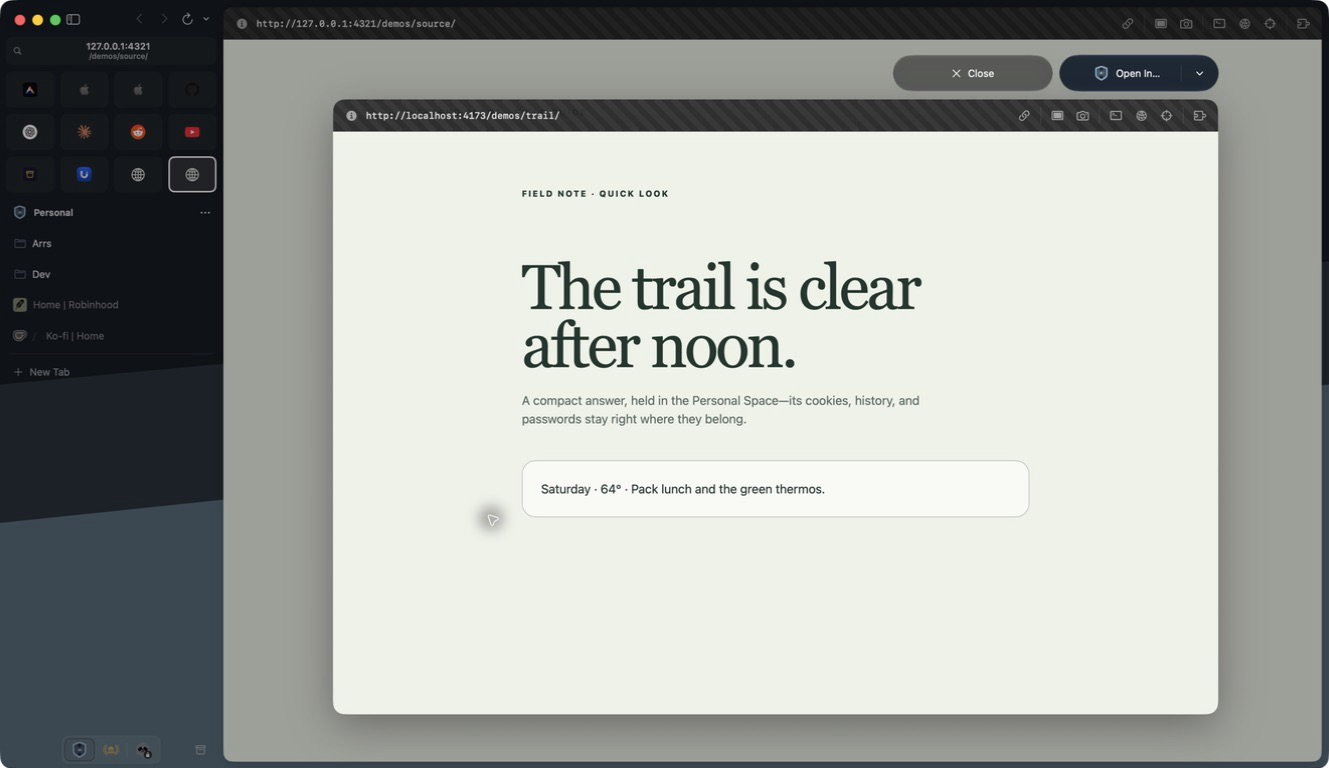
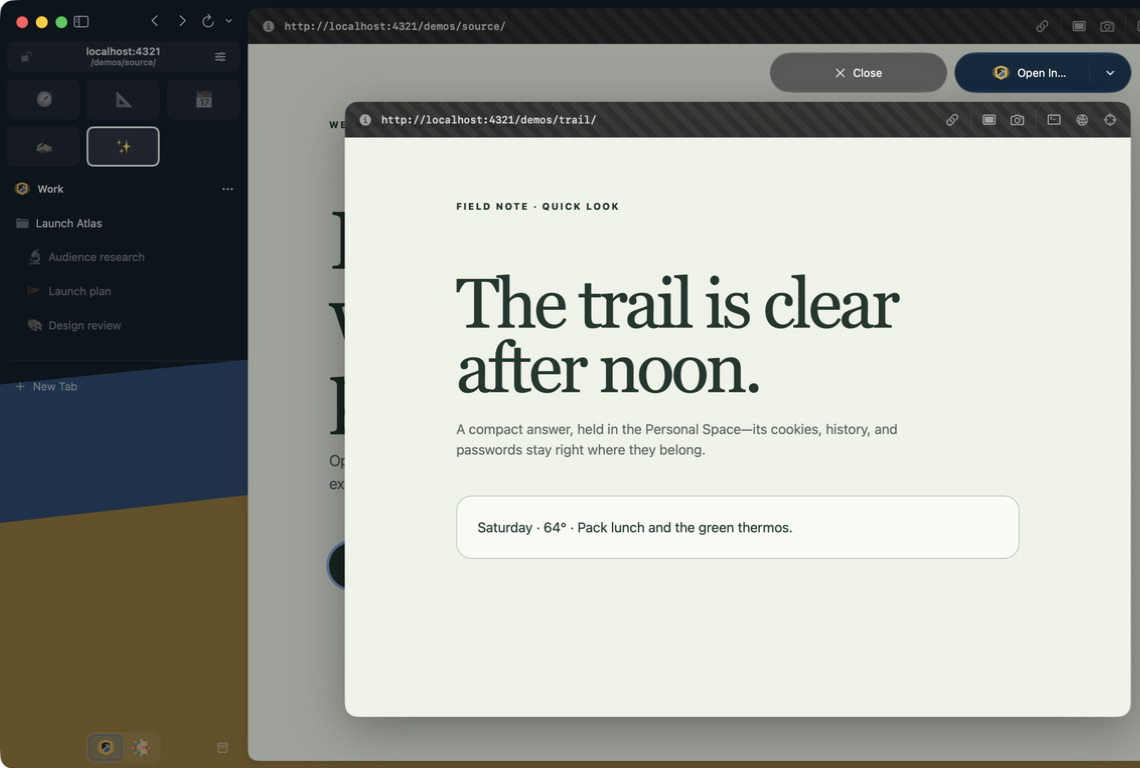
Website work

diff --git a/site/index.html b/site/index.html
@@ -39,7 +39,7 @@
   <link rel="apple-touch-icon" sizes="180x180" href="assets/apple-touch-icon.png">
   <link rel="mask-icon" href="assets/crest-logo.svg" color="#101827">
   <link rel="manifest" href="site.webmanifest">
-  <link rel="stylesheet" href="styles.css?v=20260816-direct-split-parity">
+  <link rel="stylesheet" href="styles.css?v=20260817-uniform-parity-matrix">
   <script src="site.js" defer></script>
   <script type="application/ld+json">
     {
@@ -165,7 +165,7 @@
         <div class="parity-row" role="row"><span role="cell">Durable pages</span><strong role="cell">Pinned Tabs</strong><span role="cell"><b>Saved tabs</b><small>Keep a home URL, wander away, then return to the saved location.</small></span></div>
         <div class="parity-row" role="row"><span role="cell">Projects and nesting</span><strong role="cell">Folders</strong><span role="cell"><b>Saved folders</b><small>Nest, color, collapse, reorder, and move complete folder trees.</small></span></div>
         <div class="parity-row" role="row"><span role="cell">Fast navigation</span><strong role="cell">Command Bar</strong><span role="cell"><b>Command palette</b><small>Search the web, tabs, history, other Spaces, and every Crest command.</small></span></div>
-        <div class="parity-row parity-featured" role="row"><span role="cell">Automatic link routing</span><strong role="cell">Air Traffic Control</strong><span role="cell"><b>Link Routing</b><small>Send exact URLs or matching domains to the right Space before the default route.</small></span></div>
+        <div class="parity-row" role="row"><span role="cell">Automatic link routing</span><strong role="cell">Air Traffic Control</strong><span role="cell"><b>Link Routing</b><small>Send exact URLs or matching domains to the right Space before the default route.</small></span></div>
         <div class="parity-row" role="row"><span role="cell">Multiple pages at once</span><strong role="cell">Split View</strong><span role="cell"><b>Split View</b><small>Two to four live cards, resizable on Mac and iPad and paged on iPhone.</small></span></div>
         <div class="parity-row" role="row"><span role="cell">Temporary link preview</span><strong role="cell">Peek</strong><span role="cell"><b>Peek</b><small>Preview above the source page, then close it or promote it into any Space.</small></span></div>
         <div class="parity-row" role="row"><span role="cell">External-link triage</span><strong role="cell">Little Arc</strong><span role="cell"><b>Quick Window</b><small>Open small, choose the right Space, and keep only what matters.</small></span></div>
@@ -277,7 +277,7 @@
       </div>
 
       <figure class="split-product-shot reveal">
-        <img src="assets/crest-split-view-mac-2026.png" alt="Crest Split View on Mac showing a field guide and trail note side by side inside the Personal Space" width="1329" height="768">
+        <img src="assets/crest-split-view-mac-2026.png" alt="Crest Split View on Mac showing a field guide and trail note side by side inside the Personal Space" width="1228" height="650">
         <figcaption><span>Real Crest capture · Personal Space</span><strong>Two live pages, one saved group.</strong></figcaption>
       </figure>
 
@@ -516,7 +516,7 @@
             <h3>Take a quick look without losing your place</h3>
             <p>Open a link above the page you are reading. Close it to return instantly, or promote it into a full tab when it earns a place.</p>
           </div>
-          <figure><img src="assets/crest-peek-mac-2026.png" alt="Current Crest Peek displaying a trail note above its dimmed source page" width="1329" height="768"></figure>
+          <figure><img src="assets/crest-peek-mac-2026.png" alt="Current Crest Peek displaying a trail note above its dimmed source page" width="1140" height="768"></figure>
         </article>
 
         <article class="feature-chapter feature-localhost reveal">
@@ -526,7 +526,7 @@
             <h3>Developer tools that appear when you open localhost</h3>
             <p>Open localhost and Crest reveals a dedicated toolbar for reload options, responsive capture, console, network, and inspection. Leave localhost and the extra chrome leaves with it.</p>
           </div>
-          <figure><img src="assets/crest-localhost-mac-2026.png" alt="Crest on Mac showing its automatic localhost developer toolbar" width="1329" height="768"></figure>
+          <figure><img src="assets/crest-localhost-mac-2026.png" alt="Crest on Mac showing its automatic localhost developer toolbar" width="1228" height="650"></figure>
         </article>
       </div>
 

diff --git a/site/styles.css b/site/styles.css
@@ -204,8 +204,6 @@ nav a:not(.nav-cta):hover::after { right: 0; }
 .parity-row > span:last-child { display: grid; gap: .35rem; }
 .parity-row b { font: 600 .82rem/1.35 var(--sans); }
 .parity-row small { color: rgba(16,24,39,.62); font-size: .72rem; line-height: 1.55; }
-.parity-featured { background: rgba(210,173,88,.22); box-shadow: inset .3rem 0 var(--gold); }
-.parity-featured > strong { color: #7c331f; }
 .parity-note { max-width: 780px; margin: 2rem 0 0 auto; color: rgba(16,24,39,.56); font-size: .68rem; line-height: 1.65; }
 
 .platform-story { padding: clamp(6.5rem, 11vw, 10rem) max(1.5rem, calc((100vw - 1280px) / 2)); color: var(--paper); background: #49365f; }
@@ -692,7 +690,6 @@ section:target .reveal { opacity: 1; transform: none; }
   .parity-row > span:first-child::before { content: "The job"; }
   .parity-row > strong::before { content: "Arc called it"; }
   .parity-row > span:last-child::before { content: "Crest"; }
-  .parity-featured { box-shadow: inset .28rem 0 var(--gold); }
   .split-product-shot figcaption, .split-guide-link { align-items: flex-start; flex-direction: column; }
   .split-capabilities { grid-template-columns: 1fr; }
   .platform-copy, .forge-copy, .feature-copy { padding: 1.6rem; }
